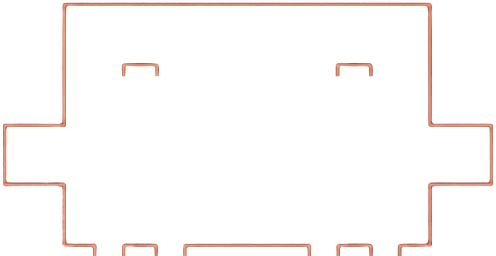
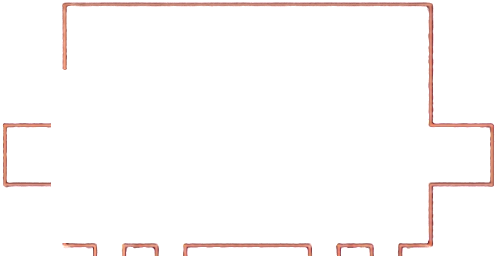
Swap compact template to djxyjn Gemini image (no-eyes variant)
Cleaner rectangular chip body with 4 leg stubs and side pins — no
eye sockets in this version. Erase box widened to fully clear the
'75%' + '%' sign.

diff --git a/tools/process-compact-template.swift b/tools/process-compact-template.swift
@@ -16,7 +16,7 @@ import Foundation
 
 let repo = FileManager.default.currentDirectoryPath
 let srcURL = URL(fileURLWithPath: repo)
-    .appendingPathComponent("Gemini_Generated_Image_aswh90aswh90aswh.png")
+    .appendingPathComponent("Gemini_Generated_Image_djxyjndjxyjndjxy.png")
 guard let src = NSImage(contentsOf: srcURL) else {
     FileHandle.standardError.write("Could not load \(srcURL.path)\n".data(using: .utf8)!)
     exit(1)
@@ -60,8 +60,8 @@ bgColor.setFill()
 // Erase "75%" — covers full digit span including "%" slash/circles
 let fx = CGFloat(w)
 let fy = CGFloat(h)
-let eraseText = NSRect(x: fx * 0.22, y: fy * 0.28,
-                       width: fx * 0.56, height: fy * 0.44)
+let eraseText = NSRect(x: fx * 0.16, y: fy * 0.24,
+                       width: fx * 0.68, height: fy * 0.50)
 eraseText.fill()
 
 // Erase Gemini sparkle in bottom-right corner (~last 8%)
